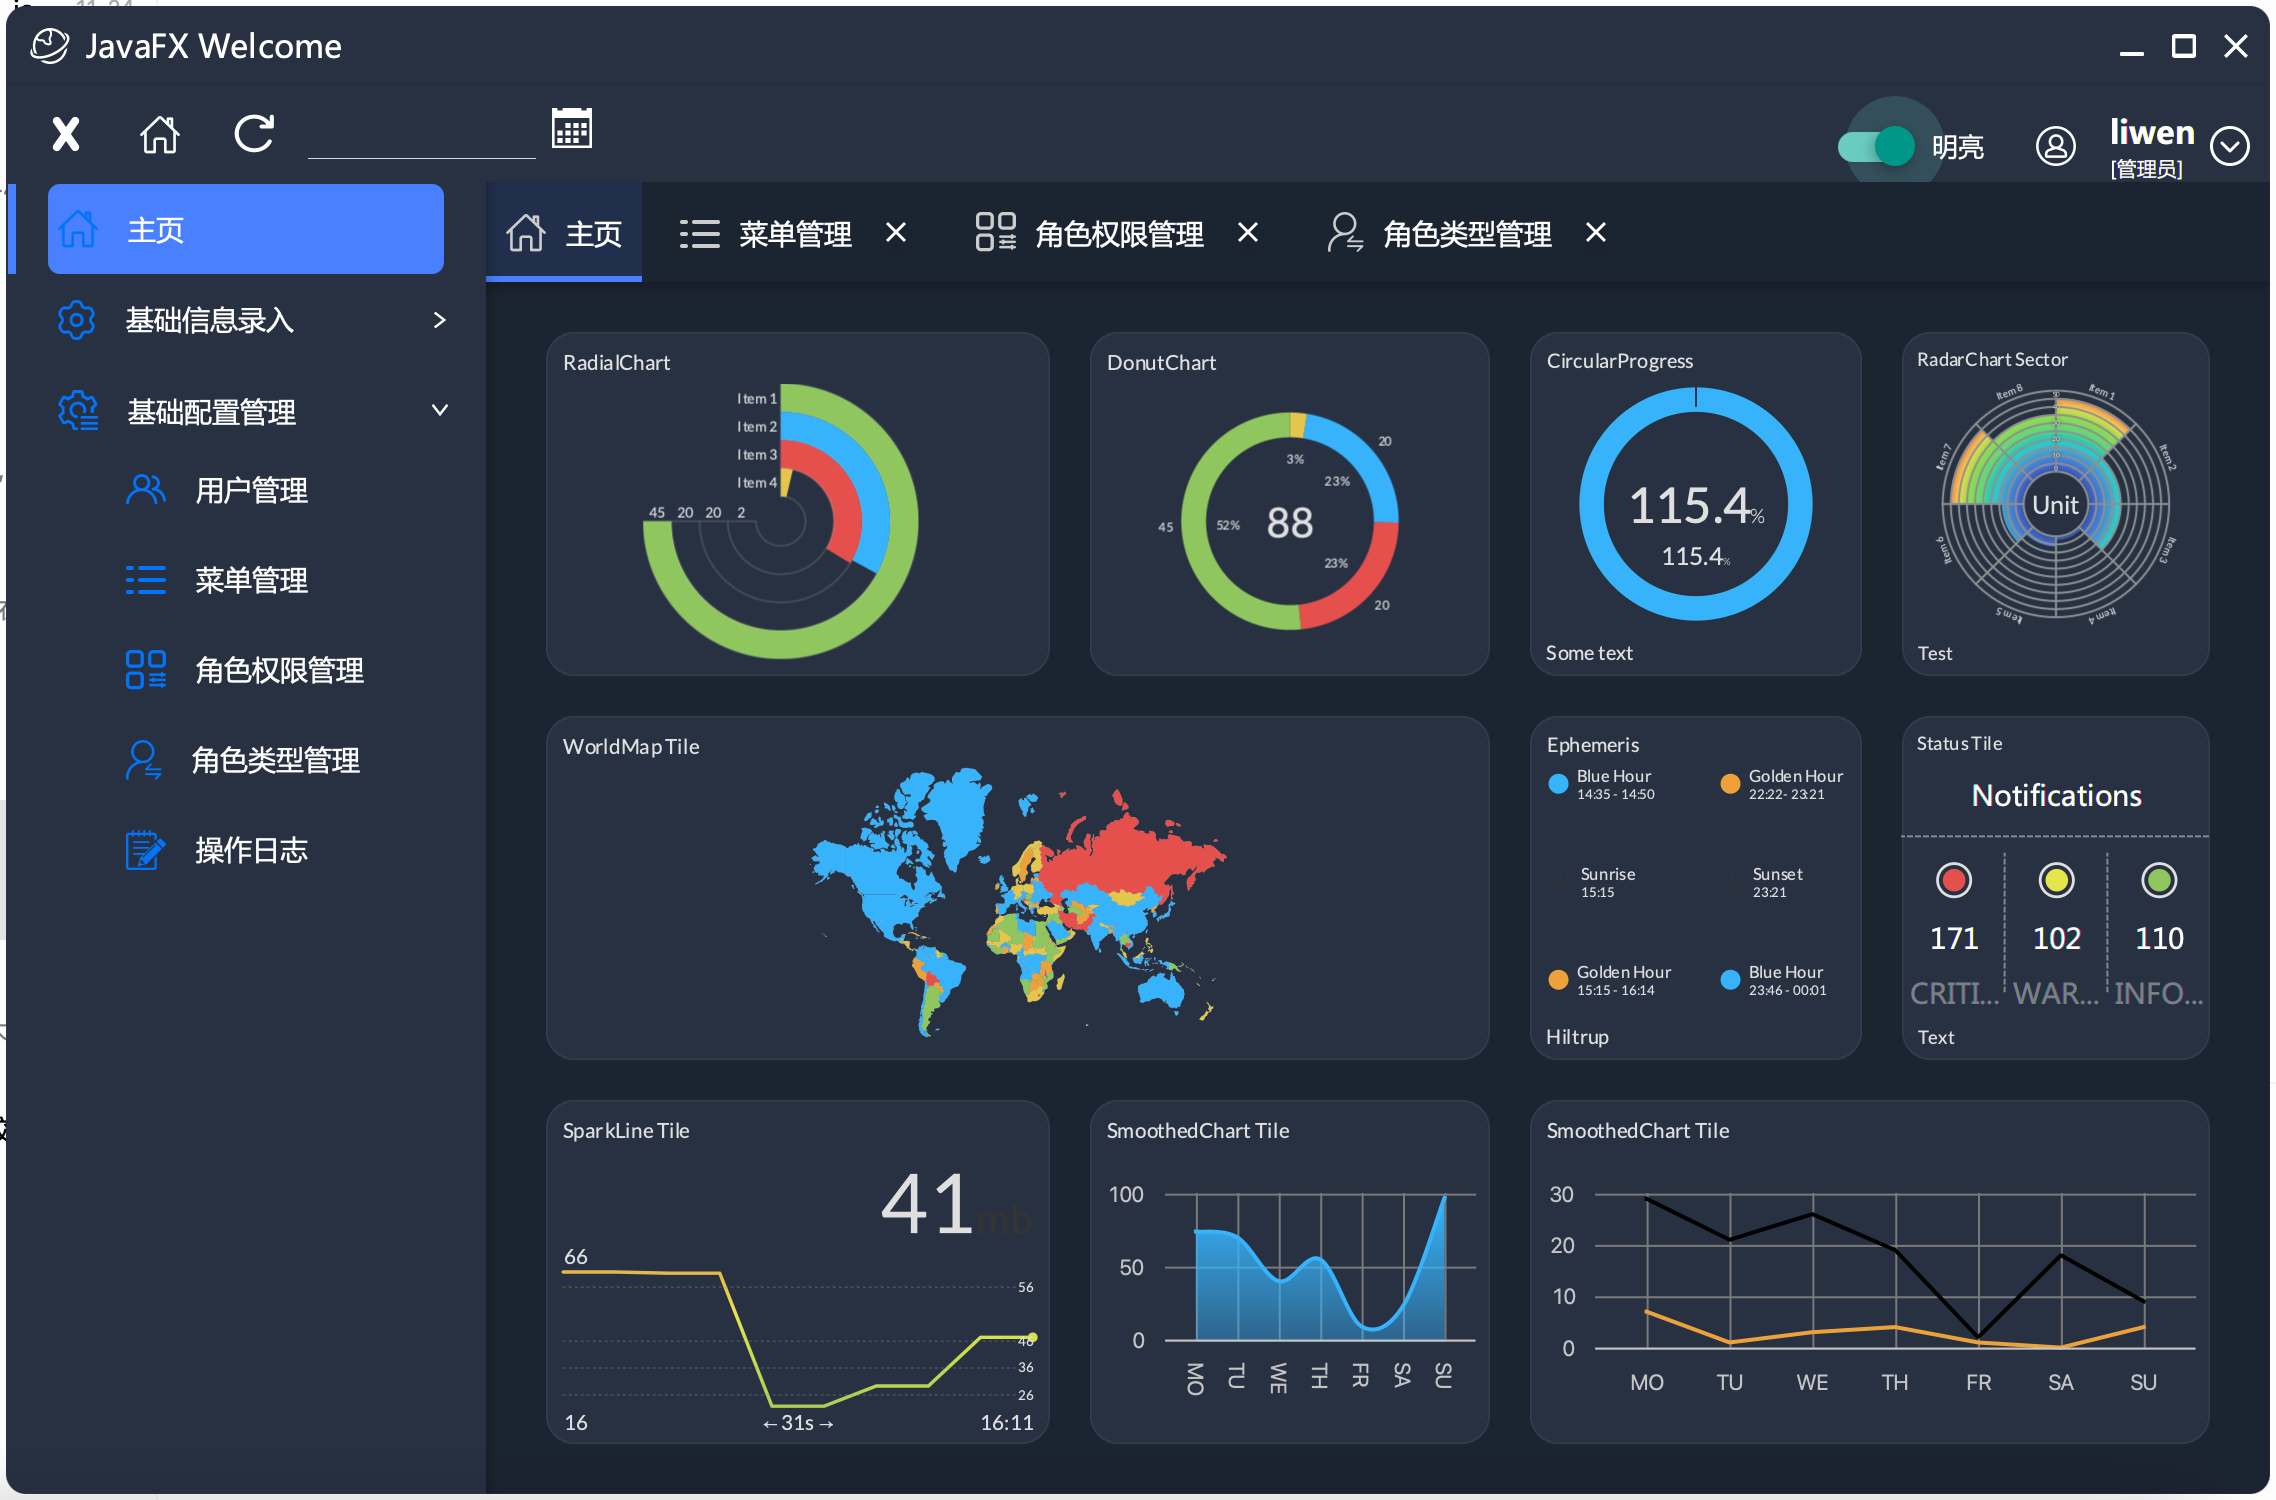
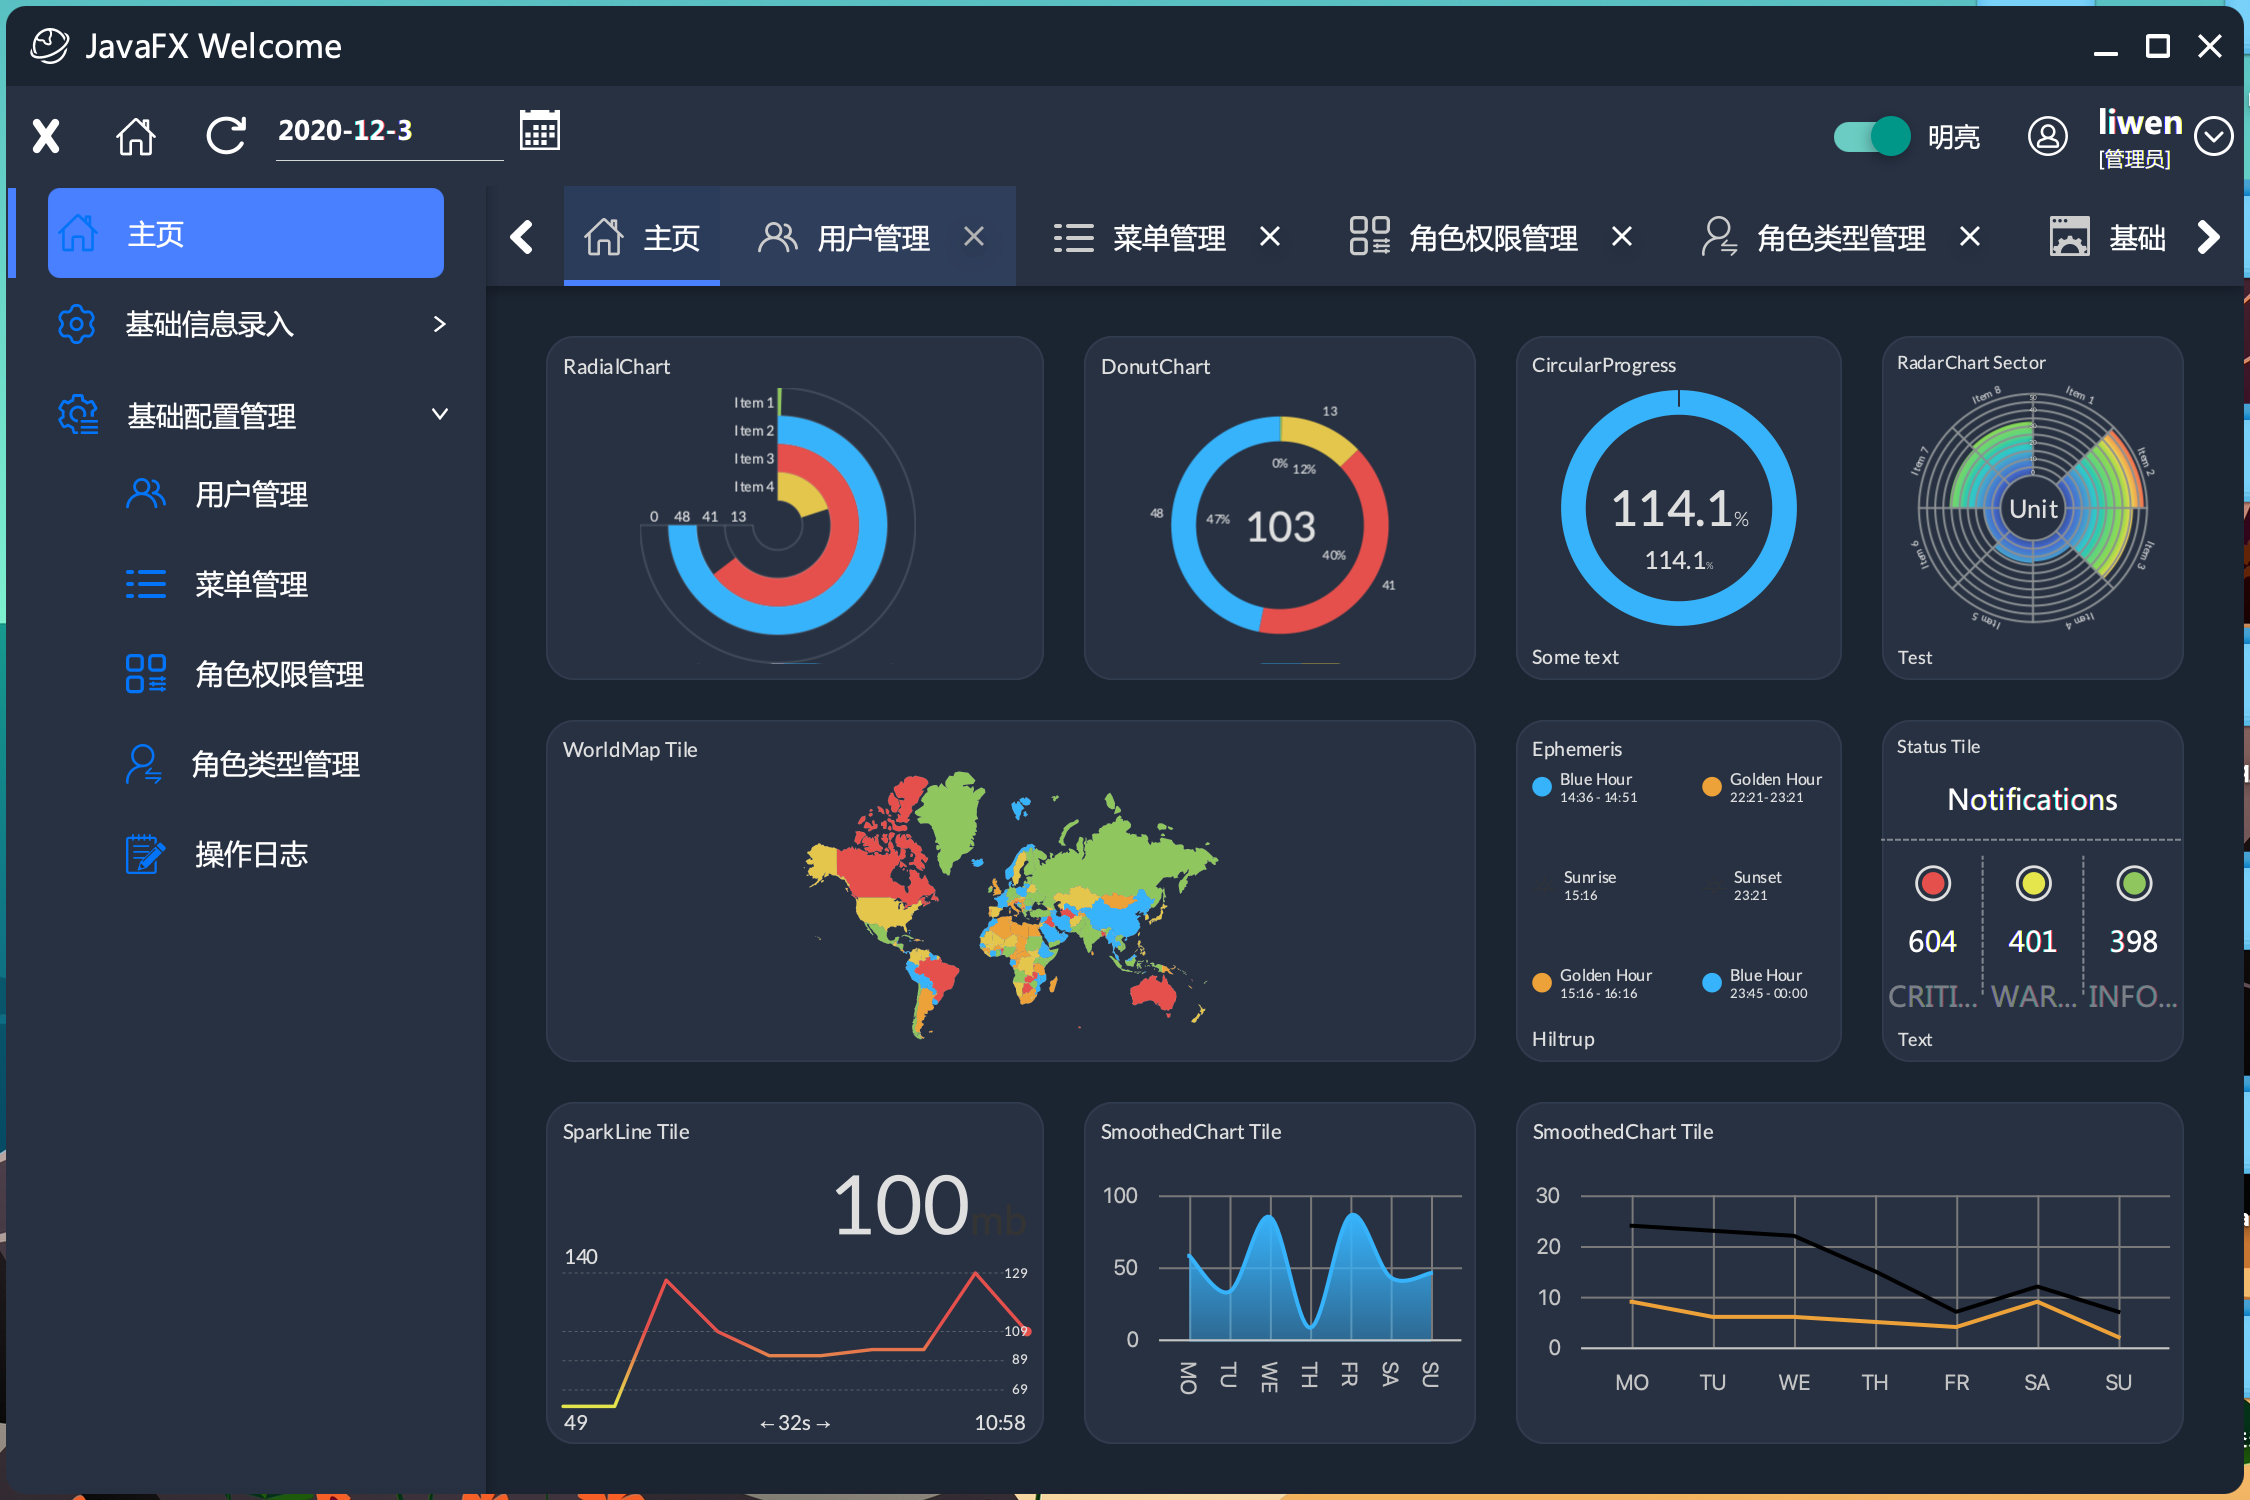
修改一些细节

diff --git a/client/src/main/resources/css/app-dark.css b/client/src/main/resources/css/app-dark.css
@@ -28,7 +28,7 @@
 }
 
 .backgroundPane {
-    -fx-background-color: -fx-main-base;
+    -fx-background-color: -fx-card-base;
 }
 
 .jfx-svg-glyph {
@@ -209,7 +209,7 @@
 *******************************************************************************/
 
 .lfx-decorator {
-    -fx-decorator-color: -fx-card-base;
+    -fx-decorator-color: -fx-main-base;
     -fx-background-color: transparent;
 
 }
@@ -336,7 +336,7 @@
 
 
 .jfx-tab-pane .tab-header-background {
-    -fx-background-color: -fx-main-base;
+    -fx-background-color: -fx-card-base;
 }
 
 .jfx-tab-pane .headers-region .tab-selected-line {
@@ -406,9 +406,9 @@
     -fx-background-color: -fx-accent-suspension-color;
 }
 
-/*.tab-content {*/
-/*    -fx-background-color: -fx-card-base;*/
-/*}*/
+.tab-content {
+    -fx-background-color: -fx-main-base;
+}
 
 /*******************************************************************************
 *                                                                              *

diff --git a/client/src/main/resources/css/app-light.css b/client/src/main/resources/css/app-light.css
@@ -30,7 +30,7 @@
 }
 
 .backgroundPane {
-    -fx-background-color: -fx-main-base;
+    -fx-background-color: -fx-card-base;
 }
 
 .jfx-svg-glyph {
@@ -337,7 +337,7 @@
 
 
 .jfx-tab-pane .tab-header-background {
-    -fx-background-color: -fx-main-base;
+    -fx-background-color: -fx-card-base;
 }
 
 .jfx-tab-pane .headers-region .tab-selected-line {
@@ -407,9 +407,9 @@
     -fx-background-color: -fx-accent-suspension-color;
 }
 
-/*.tab-content {*/
-/*    -fx-background-color: -fx-card-base;*/
-/*}*/
+.tab-content {
+    -fx-background-color: -fx-main-base;
+}
 
 /*******************************************************************************
 *                                                                              *
@@ -490,6 +490,10 @@
 
 .navigation-list .jfx-rippler {
     -jfx-rippler-fill: derive(-fx-accent-color, -20%);
+}
+
+#navigation-menu{
+    -fx-background-color: #F9F9F9;
 }
 
 

diff --git a/client/src/main/java/com/epri/fx/client/gui/uicomponents/main/MainController.java b/client/src/main/java/com/epri/fx/client/gui/uicomponents/main/MainController.java
@@ -66,8 +66,7 @@ public class MainController {
     @ActionHandler
     private FlowActionHandler actionHandler;
 
-    @FXML
-    private JFXToolbar toolBar;    //工具栏
+
     @FXML
     private StackPane rootPane;
     @FXML
